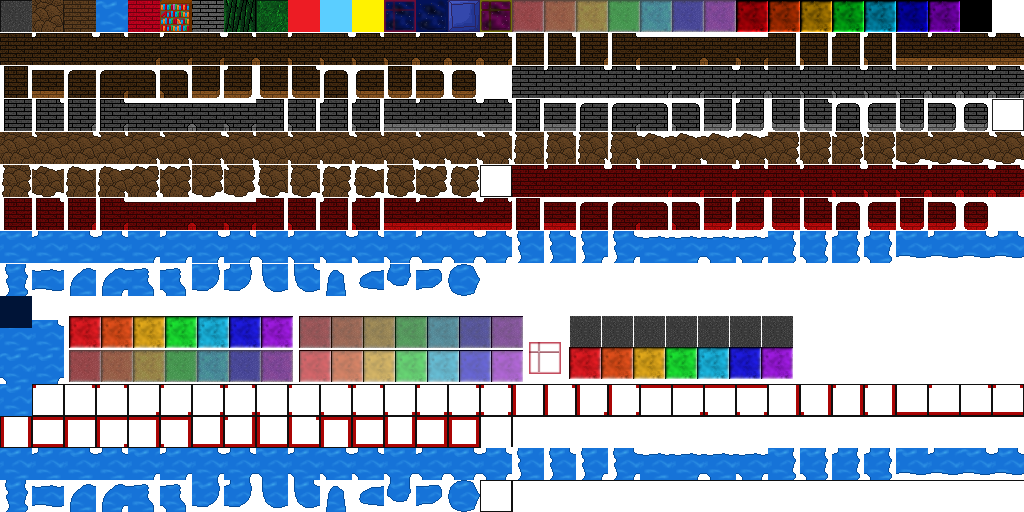
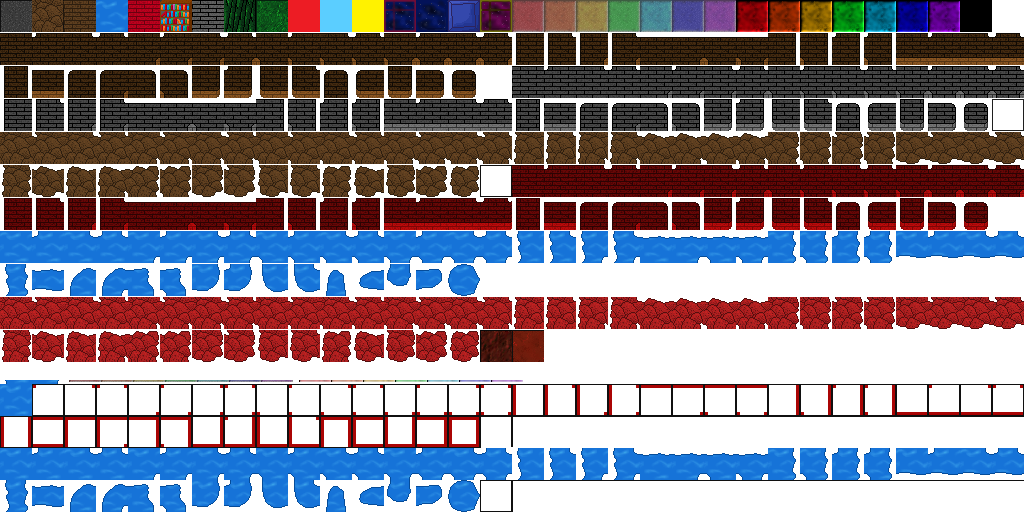
지옥 도트 추가

Changed region(s): [[0.0, 0.5625, 1.0, 0.75]]

diff --git a/th_crawl/environment.cpp b/th_crawl/environment.cpp
@@ -503,6 +503,7 @@ char environment::getAsciiDot(int x_, int y_)
 	case DG_PANDE_FLOOR6:
 	case DG_PANDE_FLOOR7:
 	case DG_DREAM_FLOOR2:
+	case DG_HELL_FLOOR:
 		return '.';
 	case DG_OPEN_DOOR:
 		return '/';
@@ -560,6 +561,7 @@ char environment::getAsciiDot(int x_, int y_)
 	case DG_PANDE_WALL5:
 	case DG_PANDE_WALL6:
 	case DG_PANDE_WALL7:
+	case DG_HELL_WALL:
 		return '#';
 	case DG_TREE:
 		return 'T';
@@ -767,6 +769,11 @@ void environment::innerDrawTile(LPD3DXSPRITE pSprite, int tile_x, int tile_y, fl
 		img_dungeon01[env[current_level].base_floor].draw(pSprite, x, y, color_);
 		//img_auto_wall[0].draw(pSprite, x, y, color_);
 		img_auto_red_wall[getAutoTileNum(dgtile[tile_x][tile_y].autotile_bitmap[AUTOTILE_WALL])].draw(pSprite, x, y, color_);
+	}
+	else if (dgtile[tile_x][tile_y].tile == DG_HELL_WALL) {
+		img_dungeon01[env[current_level].base_floor].draw(pSprite, x, y, color_);
+		//img_auto_wall[0].draw(pSprite, x, y, color_);
+		img_auto_hell_wall[getAutoTileNum(dgtile[tile_x][tile_y].autotile_bitmap[AUTOTILE_WALL])].draw(pSprite, x, y, color_);
 	}
 	else if (dgtile[tile_x][tile_y].tile == DG_SEA) {
 		img_dungeon01[env[current_level].base_floor].draw(pSprite, x, y, color_);

diff --git a/th_crawl/tile.cpp b/th_crawl/tile.cpp
@@ -25,6 +25,8 @@ dot_tile_type dungeon_tile::GetDot()
 	case DG_PANDE_FLOOR5:
 	case DG_PANDE_FLOOR6:
 	case DG_PANDE_FLOOR7:
+	case DG_DREAM_FLOOR2:
+	case DG_HELL_FLOOR:
 		return DOT_FLOOR;
 	case DG_WALL:
 	case DG_GLASS:
@@ -44,6 +46,7 @@ dot_tile_type dungeon_tile::GetDot()
 	case DG_PANDE_WALL6:
 	case DG_PANDE_WALL7:
 	case DG_TREE:
+	case DG_HELL_WALL:
 		return DOT_WALL;
 	case DG_CLOSE_DOOR:
 	case DG_OPEN_DOOR:

diff --git a/th_crawl/map.cpp b/th_crawl/map.cpp
@@ -283,7 +283,7 @@ void map_algorithms(int num)
 		}
 		else if(num >= SUBTERRANEAN_LEVEL && num <= SUBTERRANEAN_LEVEL_LAST_LEVEL)
 		{
-			map_algorithms01(num,DG_FLOOR,DG_WALL);
+			map_algorithms01(num, DG_HELL_FLOOR,DG_HELL_WALL);
 		}
 		else if(num >= YUKKURI_LEVEL && num < YUKKURI_LAST_LEVEL)
 		{
